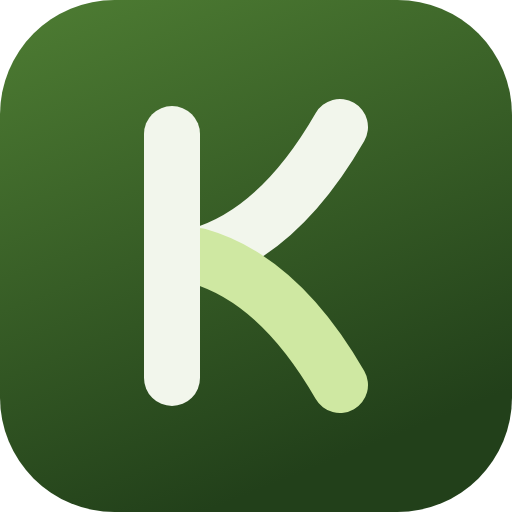
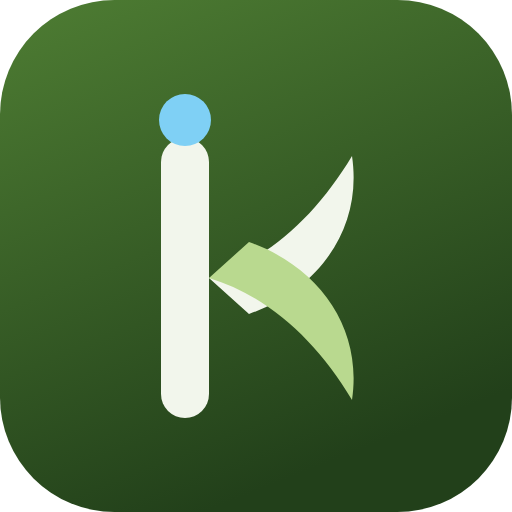
Reprend le monogramme de la planche comme marque
Le K retenu est celui de la planche d'origine : une hampe surmontée d'une
goutte, deux bras taillés en lames de feuille. La lettre du nom, la pluie et
le vivant dans un seul signe.

La livraison précédente avait redessiné les bras en trait épais et retiré la
goutte, au nom de la lisibilité en petit. Maxime Nathan Lestage a tranché pour
le dessin d'origine ; c'est lui qui devient la marque.

Seule retouche apportée : le signe est recentré sur son carreau. Il se tenait
en haut à gauche, laissant du vide en bas à droite. Le dessin, lui, est celui
de la planche, trait pour trait.

Un seul dessin, décliné : favicon, icônes web, icône iOS et watchOS, marque du
site et image de partage sortent de la même géométrie, dans le même repère de
1024. Le composant du site en est la transcription.

Changed region(s): [[0.2812, 0.1562, 0.7188, 0.8438], [0.6562, 0.625, 0.6875, 0.6875]]

diff --git a/site/src/components/Brand.tsx b/site/src/components/Brand.tsx
@@ -1,10 +1,10 @@
 /**
  * Marque de Klima.
  *
- * Un K dont la hampe est droite et les bras cintrés, comme une pousse qui
- * s'ouvre : la lettre du nom et le geste de la plante dans le même signe. Peu
- * de formes, un trait épais — il tient à vingt-deux pixels comme sur une icône
- * d'application.
+ * Un K dont la hampe porte une goutte et dont les bras sont taillés en lames
+ * de feuille : la lettre du nom, la pluie et le vivant dans un seul signe. Peu
+ * de formes, un trait large — il tient sur une icône d'application comme dans
+ * un pied de page.
  *
  * La géométrie est celle des gabarits de /tmp/brand : favicon, icônes web,
  * icône iOS et watchOS, image de partage et ce composant sortent du même
@@ -37,24 +37,15 @@ export function BrandMark({ size = 32, title }: Props) {
       {/* Le carreau : la parcelle sur laquelle la lettre est posée. */}
       <rect width="1024" height="1024" rx="229" fill="url(#klimaTile)" />
 
-      {/* Les deux bras, cintrés. Le bras haut porte la lumière, le bas la feuille. */}
-      <path
-        d="M396 512 Q558 466 680 254"
-        stroke="#f2f6ec"
-        strokeWidth="112"
-        strokeLinecap="round"
-        fill="none"
-      />
-      <path
-        d="M396 512 Q558 558 680 770"
-        stroke="#cfe8a2"
-        strokeWidth="112"
-        strokeLinecap="round"
-        fill="none"
-      />
+      {/* La hampe. */}
+      <rect x="322" y="276" width="96" height="560" rx="48" fill="#f2f6ec" />
 
-      {/* La hampe, dessinée en dernier : elle referme la jonction des bras. */}
-      <rect x="288" y="212" width="112" height="600" rx="56" fill="#f2f6ec" />
+      {/* Les deux bras, taillés en lames : celui du haut prend la lumière. */}
+      <path d="M418 556c118-36 214-124 286-244 22 148-70 268-206 316Z" fill="#f2f6ec" />
+      <path d="M418 556c118 36 214 124 286 244 22-148-70-268-206-316Z" fill="#b9d98f" />
+
+      {/* La goutte, posée sur la hampe : ce que la météo apporte à la plante. */}
+      <circle cx="370" cy="240" r="52" fill="#7fd0f5" />
     </svg>
   )
 }
